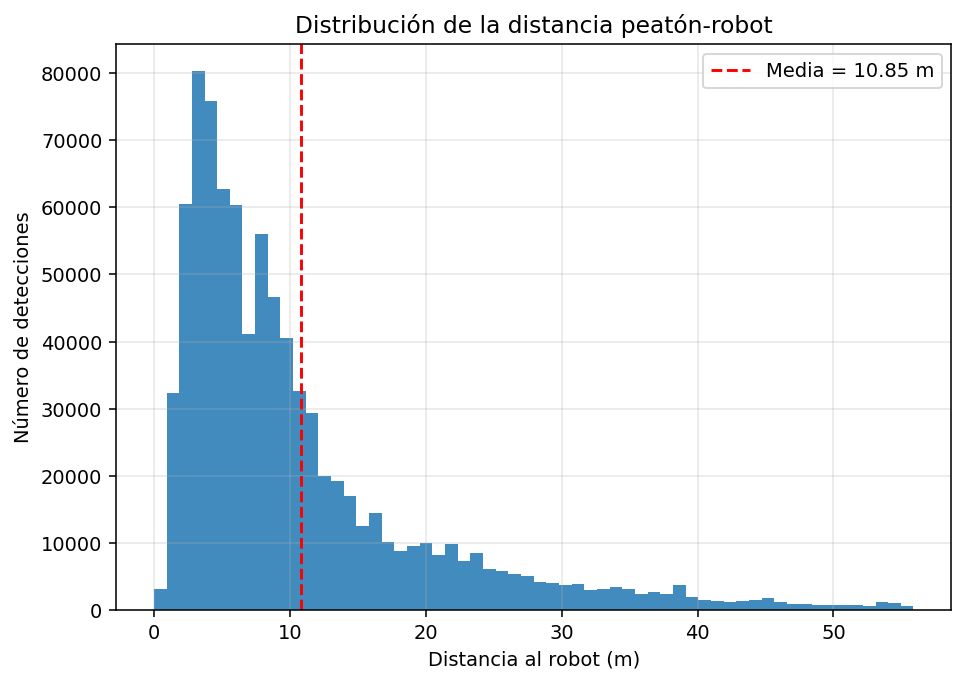
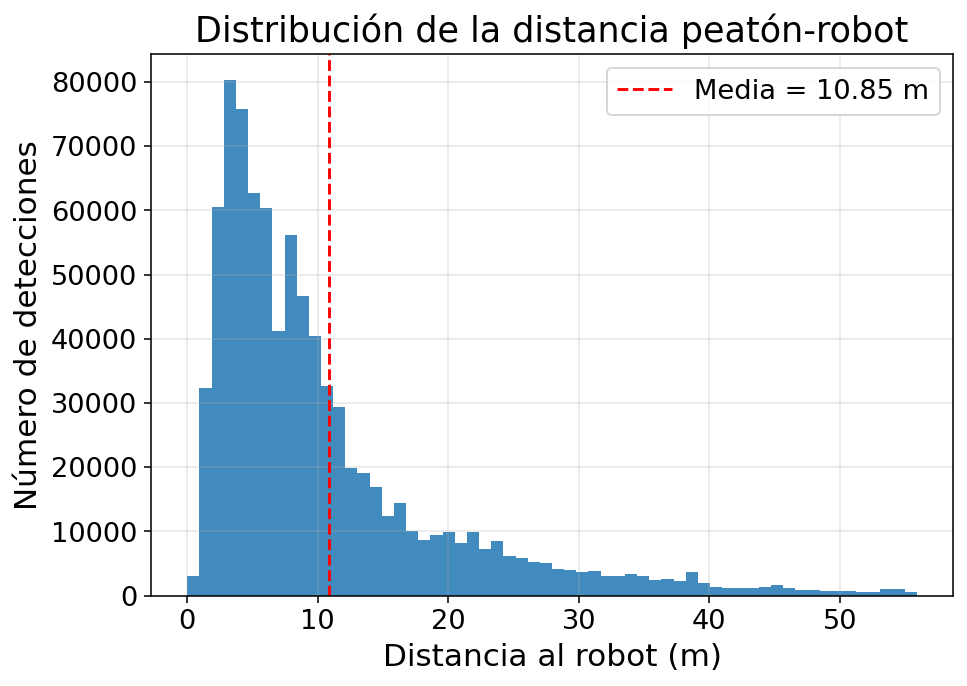
Actualización de scripts de data_prep y gitignore

Changed region(s): [[0.0, 0.0, 0.9948, 0.9839]]

diff --git a/data_prep/12_val_proyeccion_2d3d.py b/data_prep/12_val_proyeccion_2d3d.py
@@ -1,0 +1,191 @@
+"""
+Validación de la correspondencia 2D–3D que entra al modelo de fusión temprana.
+
+Para un (secuencia, frame): proyecta la caja 3D de cada peatón (labels_3d, marco del
+LiDAR superior) sobre la imagen de su cámara usando la calibración de JRDB
+(lidars.yaml: upper2cam, K distorsionada y coeficientes de distorsión D), y la
+superpone con la caja 2D anotada (del CSV). Si ambas cajas coinciden, se confirma
+que los datos 2D y 3D corresponden al MISMO peatón en el MISMO frame — que es lo que
+asume la fusión.
+
+La validación cuantitativa es con el CENTRO: comprueba que el centro de la caja 3D
+proyectada cae DENTRO de la caja 2D. La caja 3D proyectada (roja) sobreestima el
+tamaño 2D porque es el volumen 3D completo (profundidad incluida), así que el solape
+de cajas (IoU) es engañoso; el centro es la señal robusta de correspondencia.
+
+Uso:
+    python data_prep/12_val_proyeccion_2d3d.py [secuencia] [frame]
+Por defecto: bytes-cafe-2019-02-07_0, frame 0.
+
+Nota: los labels_3d de JRDB están en el marco EGO (base del robot), por eso el marco
+correcto es "ego" (inversa de cam2ego) — verificado: 100% de los centros 3D caen
+dentro de la caja 2D. Se deja "upper" como alternativa por si se necesita comparar.
+"""
+import sys
+import csv
+import json
+from pathlib import Path
+import numpy as np
+try:
+    import yaml
+except ImportError:
+    sys.exit("Falta el paquete pyyaml. Instálalo con: pip install pyyaml")
+import matplotlib
+matplotlib.use("Agg")
+import matplotlib.pyplot as plt
+from matplotlib.patches import Rectangle
+from collections import defaultdict
+
+DATA_DIR = "/mnt/c/Users/paula/Desktop/TFM"
+TRAIN = Path(DATA_DIR) / "train_dataset_with_activity" / "train_dataset_with_activity"
+CALIB = TRAIN / "calibration"
+LABELS_3D = TRAIN / "labels" / "labels_3d"
+IMAGES = TRAIN / "images"
+OUT = Path(DATA_DIR) / "data_prep" / "figuras"; OUT.mkdir(parents=True, exist_ok=True)
+
+SEQ = sys.argv[1] if len(sys.argv) > 1 else "bytes-cafe-2019-02-07_0"
+FR = int(sys.argv[2]) if len(sys.argv) > 2 else 0
+# Marco de los labels 3D: "ego" (correcto, -> inv(cam2ego)) o "upper" (-> upper2cam).
+# Verificado: con "ego" el 100% de los centros 3D caen dentro de la caja 2D (offset 0,15).
+FRAME_3D = sys.argv[3] if len(sys.argv) > 3 else "ego"
+
+
+def load_calib():
+    # Calibración por cámara: image_N -> sensor_N (N = 0,2,4,6,8)
+    cal = yaml.safe_load(open(CALIB / "lidars.yaml"))
+    cams = {}
+    for n in (0, 2, 4, 6, 8):
+        s = cal[f"sensor_{n}"]
+        M = np.array(s["upper2cam"], dtype=float) if FRAME_3D == "upper" \
+            else np.linalg.inv(np.array(s["cam2ego"], dtype=float))
+        cams[f"image_{n}"] = dict(
+            M=M,
+            K=np.array(s["distorted_img_K"], dtype=float),
+            D=np.array(s["D"], dtype=float))
+    return cams
+
+
+def load_boxes3d():
+    # Cajas 3D del frame: id -> (cx, cy, cz, l, w, h, rot_z)
+    data = json.load(open(LABELS_3D / f"{SEQ}.json"))["labels"]
+    key = f"{FR:06d}.pcd"
+    boxes = {}
+    for a in data.get(key, []):
+        tid = int(a["label_id"].split(":")[1])
+        b = a["box"]
+        boxes[tid] = (b["cx"], b["cy"], b["cz"], b["l"], b["w"], b["h"], b["rot_z"])
+    return boxes
+
+
+def load_boxes2d():
+    # Cajas 2D del CSV: camara -> {track_id: (x0, y0, w, h)} (esquina sup-izq y tamaño)
+    boxes = defaultdict(dict)
+    with open(f"{DATA_DIR}/jrdb_clean_trajectories.csv") as f:
+        for r in csv.DictReader(f):
+            if r["sequence"] == SEQ and int(r["frame"]) == FR:
+                x, y = float(r["x"]), float(r["y"])            # centro del bbox
+                bw, bh = float(r["bbox_w"]), float(r["bbox_h"])
+                boxes[r["camera"]][int(r["track_id"])] = (x - bw / 2, y - bh / 2, bw, bh)
+    return boxes
+
+
+def box_corners(cx, cy, cz, l, w, h, rot_z):
+    # 8 esquinas de la caja 3D orientada por rot_z (marco del LiDAR)
+    c, s = np.cos(rot_z), np.sin(rot_z)
+    pts = []
+    for X in (-l / 2, l / 2):
+        for Y in (-w / 2, w / 2):
+            for Z in (-h / 2, h / 2):
+                pts.append([cx + c * X - s * Y, cy + s * X + c * Y, cz + Z])
+    return np.array(pts)
+
+
+def project(pts, M, K, D):
+    # Proyecta puntos 3D (marco LiDAR) a píxeles de la cámara (modelo pinhole + distorsión)
+    P = (M @ np.c_[pts, np.ones(len(pts))].T).T[:, :3]     # marco cámara (z hacia delante)
+    z = P[:, 2]
+    valid = z > 0.05                                        # solo lo que está delante de la cámara
+    x, y = P[:, 0] / z, P[:, 1] / z
+    r2 = x * x + y * y
+    k1, k2, p1, p2, k3 = D
+    rad = 1 + k1 * r2 + k2 * r2 ** 2 + k3 * r2 ** 3
+    xd = x * rad + 2 * p1 * x * y + p2 * (r2 + 2 * x * x)
+    yd = y * rad + p1 * (r2 + 2 * y * y) + 2 * p2 * x * y
+    u = K[0, 0] * xd + K[0, 2]
+    v = K[1, 1] * yd + K[1, 2]
+    return np.c_[u, v], valid
+
+
+def main():
+    print(f"FRAME_3D = {FRAME_3D}  ·  {SEQ}  frame {FR}")
+    cams = load_calib()
+    b3d = load_boxes3d()
+    b2d = load_boxes2d()
+    if not b2d:
+        raise SystemExit(f"No hay cajas 2D en el CSV para {SEQ} frame {FR}.")
+
+    centers_in, offsets = [], []
+    for cam, peds in b2d.items():
+        if cam not in cams:
+            continue
+        img_path = IMAGES / cam / SEQ / f"{FR:06d}.jpg"
+        if not img_path.exists():
+            print(f"  (falta imagen) {img_path}")
+            continue
+        img = plt.imread(img_path)
+        H, W = img.shape[:2]
+
+        fig, ax = plt.subplots(figsize=(12, 8))
+        ax.imshow(img)
+        for tid, box2d in peds.items():
+            # Caja 2D anotada (verde)
+            x0, y0, bw, bh = box2d
+            ax.add_patch(Rectangle((x0, y0), bw, bh, fill=False, edgecolor="lime", lw=2.5))
+            ax.text(x0, y0 - 4, f"2D id {tid}", color="lime", fontsize=11, fontweight="bold")
+
+            # Proyección de la caja 3D del peatón (si la tiene)
+            if tid not in b3d:
+                continue
+            corners = box_corners(*b3d[tid])
+            uv, valid = project(corners, cams[cam]["M"], cams[cam]["K"], cams[cam]["D"])
+            if valid.sum() < 4:
+                continue                                    # la caja cae fuera/atrás de esta cámara
+            uv = uv[valid]
+            px0, py0 = uv[:, 0].min(), uv[:, 1].min()
+            px1, py1 = uv[:, 0].max(), uv[:, 1].max()
+            # Caja 3D proyectada (roja, fina) -> solo contexto; sobreestima por incluir la profundidad
+            ax.add_patch(Rectangle((px0, py0), px1 - px0, py1 - py0,
+                                   fill=False, edgecolor="red", lw=1.3, linestyle="--", alpha=0.6))
+            # CENTRO 3D proyectado -> señal robusta: debe caer DENTRO de la caja 2D
+            cx3, cy3, cz3 = b3d[tid][0], b3d[tid][1], b3d[tid][2]
+            uvc, _ = project(np.array([[cx3, cy3, cz3]]), cams[cam]["M"], cams[cam]["K"], cams[cam]["D"])
+            uc, vc = float(uvc[0, 0]), float(uvc[0, 1])
+            ax.plot(uc, vc, "rx", markersize=13, markeredgewidth=3, zorder=5)
+            inside = (x0 <= uc <= x0 + bw) and (y0 <= vc <= y0 + bh)
+            off = float(np.hypot(uc - (x0 + bw / 2), vc - (y0 + bh / 2)) / (0.5 * (bw + bh)))
+            centers_in.append(inside); offsets.append(off)
+            ax.text(x0, y0 + bh + 14, f"centro {'DENTRO' if inside else 'fuera'} (off={off:.2f})",
+                    color="red", fontsize=10, fontweight="bold")
+
+        ax.set_xlim(0, W); ax.set_ylim(H, 0)
+        ax.set_title(f"Validación 2D–3D  ·  {SEQ}  frame {FR}  ·  {cam}\n"
+                     "verde = caja 2D anotada, rojo = caja 3D proyectada", fontsize=13)
+        ax.axis("off")
+        out = OUT / f"val_proyeccion_2d3d_{SEQ}_{FR}_{cam}.png"
+        fig.tight_layout(); fig.savefig(out, dpi=140, bbox_inches="tight"); plt.close(fig)
+        print(f"Guardado: {out.name}")
+
+    if offsets:
+        frac = 100 * np.mean(centers_in)
+        print(f"\nCentro 3D proyectado DENTRO de la caja 2D: {frac:.0f}% "
+              f"({int(np.sum(centers_in))}/{len(centers_in)} peatones)")
+        print(f"Offset medio centro3D–centro2D (normalizado por tamaño de caja): {np.mean(offsets):.2f}")
+        print("Alto % dentro y offset bajo (<0,5) confirma que 2D y 3D son el mismo peatón en el mismo frame.")
+        print("NOTA: la caja 3D proyectada (roja) sale MÁS GRANDE que la 2D porque es el volumen 3D "
+              "completo (profundidad incluida); por eso se valida con el CENTRO, no con el IoU de cajas.")
+    else:
+        print("\nNo se pudo proyectar ninguna caja 3D sobre las 2D (revisa FRAME_3D).")
+
+
+if __name__ == "__main__":
+    main()

diff --git a/data_prep/03_viz_jrdb_dataset_visualizer.py b/data_prep/03_viz_jrdb_dataset_visualizer.py
@@ -63,9 +63,10 @@ class JRDBDatasetVisualizer:
                 edgecolor="white")
         ax.axvline(20, color="red", ls="--", label="mínimo (OBS+PRED=20)")
         ax.set_xlim(0, self.XMAX)
-        ax.set_xlabel("Longitud de subtrayectoria (frames)"); ax.set_ylabel("Número de subtrayectorias")
-        ax.set_title("Longitudes de subtrayectorias")
-        ax.legend()
+        ax.set_xlabel("Longitud de subtrayectoria (frames)", fontsize=16); ax.set_ylabel("Número de subtrayectorias", fontsize=16)
+        ax.tick_params(labelsize=14)
+        ax.set_title("Longitudes de subtrayectorias", fontsize=18)
+        ax.legend(fontsize=14)
         fig.tight_layout(); fig.savefig(f"{self.out}/dataset_longitudes.png", dpi=130); plt.close()
 
     def plot_densidad(self):
@@ -75,9 +76,10 @@ class JRDBDatasetVisualizer:
         ax.hist([self.peds_tr, self.peds_va], bins=bins, stacked=True,
                 color=["tab:blue", "tab:orange"], label=["Entrenamiento", "Validación"],
                 edgecolor="white", align="left")
-        ax.set_xlabel("Peatones simultáneos por escena"); ax.set_ylabel("Número de frames")
-        ax.set_title("Peatones por escena")
-        ax.legend()
+        ax.set_xlabel("Peatones simultáneos por escena", fontsize=16); ax.set_ylabel("Número de frames", fontsize=16)
+        ax.tick_params(labelsize=14)
+        ax.set_title("Peatones por escena", fontsize=18)
+        ax.legend(fontsize=14)
         fig.tight_layout(); fig.savefig(f"{self.out}/dataset_densidad.png", dpi=130); plt.close()
 
     def biggest_seq(self, split) -> str:
@@ -94,9 +96,10 @@ class JRDBDatasetVisualizer:
             for sid, t in sub.groupby("subtrack_id"):
                 t = t.sort_values("frame")
                 ax.plot(t["x"], t["y"], lw=1)
-            ax.invert_yaxis(); ax.set_xlabel("x (píxeles)"); ax.set_ylabel("y (píxeles)")
-            ax.set_title(f"{split}: {seq}", fontsize=10)
-        fig.suptitle("Ejemplo de distribución de trayectorias en una escena", fontsize=12)
+            ax.invert_yaxis(); ax.set_xlabel("x (píxeles)", fontsize=15); ax.set_ylabel("y (píxeles)", fontsize=15)
+            ax.tick_params(labelsize=13)
+            ax.set_title(f"{split}: {seq}", fontsize=16)
+        fig.suptitle("Ejemplo de distribución de trayectorias en una escena", fontsize=18)
         fig.tight_layout(); fig.savefig(f"{self.out}/{fname}", dpi=130); plt.close()
 
     def print_summary(self):

diff --git a/data_prep/08_viz_lidar_distribution.py b/data_prep/08_viz_lidar_distribution.py
@@ -7,6 +7,7 @@ Datos obtenidos de labels_3d -> etiquetas
 """
 import os
 import json
+import textwrap
 import numpy as np
 import matplotlib
 matplotlib.use("Agg")
@@ -44,10 +45,12 @@ hb = ax.hexbin(cx, cy, gridsize=70, bins="log", cmap="viridis",
 ax.scatter(0, 0, c="red", marker="^", s=140, label="Robot (origen)", zorder=5, edgecolors="white")
 ax.set_aspect("equal")
 ax.set_xlim(-lim, lim); ax.set_ylim(-lim, lim)
-ax.set_xlabel("x — profundidad (m)"); ax.set_ylabel("y — lateral (m)")
-ax.set_title("Distribución de peatones en el espacio 3D")
-ax.legend(loc="upper right", fontsize=9)
-fig.colorbar(hb, ax=ax, label="Número de detecciones (log)")
+ax.set_xlabel("x — profundidad (m)", fontsize=16); ax.set_ylabel("y — lateral (m)", fontsize=16)
+ax.tick_params(labelsize=14)
+ax.set_title(textwrap.fill("Distribución de peatones en el espacio 3D", 48), fontsize=18)
+ax.legend(loc="upper right", fontsize=14)
+cb = fig.colorbar(hb, ax=ax, label="Número de detecciones (log)")
+cb.set_label("Número de detecciones (log)", fontsize=15); cb.ax.tick_params(labelsize=13)
 fig.tight_layout()
 fig.savefig(f"{OUT}/dataset_lidar_posiciones.png", dpi=140, bbox_inches="tight")
 plt.close(fig)
@@ -57,9 +60,10 @@ print(f"Guardado: {OUT}/dataset_lidar_posiciones.png")
 fig, ax = plt.subplots(figsize=(7, 5))
 ax.hist(dist, bins=60, range=(0, np.percentile(dist, 99.5)), color="tab:blue", alpha=0.85)
 ax.axvline(dist.mean(), color="red", ls="--", lw=1.5, label=f"Media = {dist.mean():.2f} m")
-ax.set_xlabel("Distancia al robot (m)"); ax.set_ylabel("Número de detecciones")
-ax.set_title("Distribución de la distancia peatón-robot")
-ax.legend(); ax.grid(alpha=0.3)
+ax.set_xlabel("Distancia al robot (m)", fontsize=16); ax.set_ylabel("Número de detecciones", fontsize=16)
+ax.tick_params(labelsize=14)
+ax.set_title(textwrap.fill("Distribución de la distancia peatón-robot", 48), fontsize=18)
+ax.legend(fontsize=14); ax.grid(alpha=0.3)
 fig.tight_layout()
 fig.savefig(f"{OUT}/dataset_lidar_distancia.png", dpi=140, bbox_inches="tight")
 plt.close(fig)

diff --git a/data_prep/10_viz_detection_error_filtrado.py b/data_prep/10_viz_detection_error_filtrado.py
@@ -5,6 +5,7 @@ submuestreadas (STRIDE=3), y solo sobre frames observados.
 """
 import os
 import json
+import textwrap
 import numpy as np
 import pandas as pd
 from pathlib import Path
@@ -96,10 +97,11 @@ fig, ax = plt.subplots(figsize=(7, 5))
 ax.hist(errors, bins=50, range=(0, MATCH_THRESH), color="tab:green", alpha=0.85)
 ax.axvline(errors.mean(), color="red", ls="--", lw=1.5, label=f"Media = {errors.mean():.3f} m")
 ax.axvline(np.median(errors), color="black", ls=":", lw=1.5, label=f"Mediana = {np.median(errors):.3f} m")
-ax.set_xlabel("Error de localización detección-etiqueta (m)")
-ax.set_ylabel("Número de detecciones")
-ax.set_title(f"Ruido del detector LiDAR — conjunto de entrenamiento (emparejamiento {rate:.1f}%)")
-ax.legend(); ax.grid(alpha=0.3)
+ax.set_xlabel("Error de localización detección-etiqueta (m)", fontsize=16)
+ax.set_ylabel("Número de detecciones", fontsize=16)
+ax.tick_params(labelsize=14)
+ax.set_title(textwrap.fill(f"Ruido del detector LiDAR — conjunto de entrenamiento (emparejamiento {rate:.1f}%)", 48), fontsize=18)
+ax.legend(fontsize=14); ax.grid(alpha=0.3)
 fig.tight_layout()
 fig.savefig(f"{OUT}/dataset_deteccion_error_filtrado.png", dpi=140, bbox_inches="tight")
 plt.close(fig)

diff --git a/data_prep/09_viz_detection_error.py b/data_prep/09_viz_detection_error.py
@@ -4,6 +4,7 @@ de localización de las detecciones y la tasa de emparejamiento.
 """
 import os
 import json
+import textwrap
 import numpy as np
 import matplotlib
 matplotlib.use("Agg")
@@ -68,10 +69,11 @@ fig, ax = plt.subplots(figsize=(7, 5))
 ax.hist(errors, bins=50, range=(0, MATCH_THRESH), color="tab:orange", alpha=0.85)
 ax.axvline(errors.mean(), color="red", ls="--", lw=1.5, label=f"Media = {errors.mean():.3f} m")
 ax.axvline(np.median(errors), color="black", ls=":", lw=1.5, label=f"Mediana = {np.median(errors):.3f} m")
-ax.set_xlabel("Error de localización detección-etiqueta (m)")
-ax.set_ylabel("Número de detecciones")
-ax.set_title(f"Ruido del detector LiDAR (emparejamiento {100*matched/total:.1f}%)")
-ax.legend(); ax.grid(alpha=0.3)
+ax.set_xlabel("Error de localización detección-etiqueta (m)", fontsize=16)
+ax.set_ylabel("Número de detecciones", fontsize=16)
+ax.tick_params(labelsize=14)
+ax.set_title(textwrap.fill(f"Ruido del detector LiDAR (emparejamiento {100*matched/total:.1f}%)", 48), fontsize=18)
+ax.legend(fontsize=14); ax.grid(alpha=0.3)
 fig.tight_layout()
 fig.savefig(f"{OUT}/dataset_deteccion_error.png", dpi=140, bbox_inches="tight")
 plt.close(fig)

diff --git a/data_prep/07_viz_pointcloud_bev.py b/data_prep/07_viz_pointcloud_bev.py
@@ -57,9 +57,9 @@ ax.plot(cx, cy, "x", color="tab:red", ms=10)
 ax.scatter(0, 0, c="tab:green", marker="^", s=120, label="Robot (origen)", zorder=5)
 ax.set_aspect("equal")
 ax.set_xlim(cx - R - 2, cx + R + 2); ax.set_ylim(cy - R - 2, cy + R + 2)
-ax.set_xlabel("x (m)"); ax.set_ylabel("y (m)")
-ax.set_title(f"Nube LiDAR — {SEQ}, frame {fr}", fontsize=10)
-ax.legend(fontsize=8, loc="upper right"); ax.grid(alpha=0.3)
+ax.set_xlabel("x (m)", fontsize=15); ax.set_ylabel("y (m)", fontsize=15); ax.tick_params(labelsize=13)
+ax.set_title(f"Nube LiDAR — {SEQ}, frame {fr}", fontsize=16)
+ax.legend(fontsize=13, loc="upper right"); ax.grid(alpha=0.3)
 fig.tight_layout()
 fig.savefig(f"{OUT}/pointcloud_bev.png", dpi=140, bbox_inches="tight")
 print(f"Guardado: {OUT}/pointcloud_bev.png  (frame {fr}, num_points={ped['attributes'].get('num_points')})")
